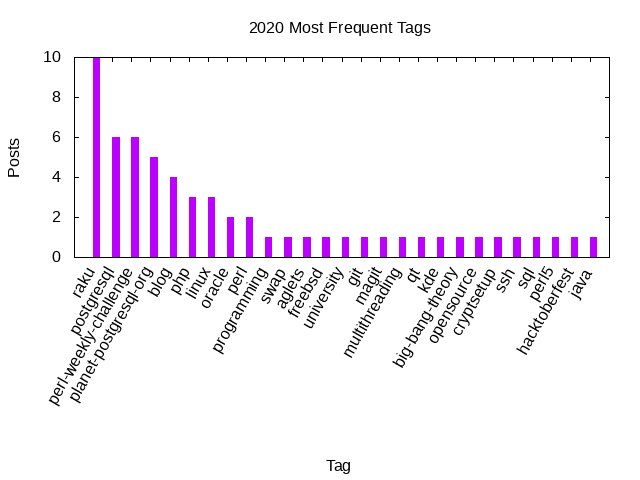
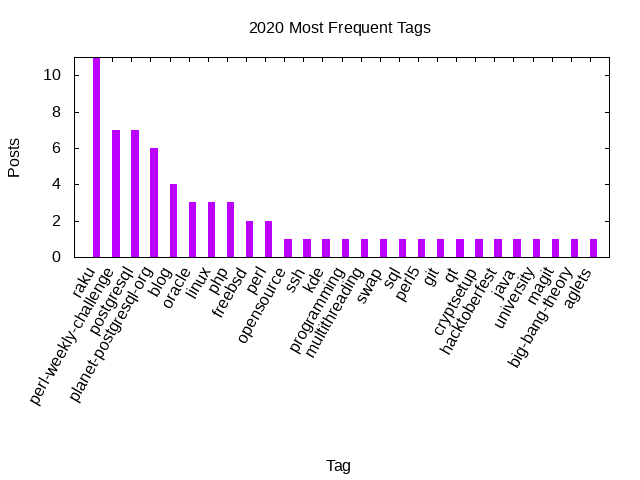
Updated stats.

diff --git a/_includes/stats/2020.md b/_includes/stats/2020.md
@@ -1,36 +1,36 @@
 ## 2020 (work in progress)
 
-**27 total posts** have been written on 2020.
+**30 total posts** have been written on 2020.
 There have been *27 different tags* used, the most
 used popular being (in order of number of posts):
  
-- *raku* (10 posts)  
-- *postgresql* (6 posts)  
-- *perl-weekly-challenge* (6 posts)  
-- *planet-postgresql-org* (5 posts)  
+- *raku* (11 posts)  
+- *perl-weekly-challenge* (7 posts)  
+- *postgresql* (7 posts)  
+- *planet-postgresql-org* (6 posts)  
 - *blog* (4 posts)  
-- *php* (3 posts)  
+- *oracle* (3 posts)  
 - *linux* (3 posts)  
-- *oracle* (2 posts)  
+- *php* (3 posts)  
+- *freebsd* (2 posts)  
 - *perl* (2 posts)  
-- *programming* (1 posts)  
-- *swap* (1 posts)  
-- *aglets* (1 posts)  
-- *freebsd* (1 posts)  
-- *university* (1 posts)  
-- *git* (1 posts)  
-- *magit* (1 posts)  
-- *multithreading* (1 posts)  
-- *qt* (1 posts)  
-- *kde* (1 posts)  
-- *big-bang-theory* (1 posts)  
 - *opensource* (1 posts)  
-- *cryptsetup* (1 posts)  
 - *ssh* (1 posts)  
+- *kde* (1 posts)  
+- *programming* (1 posts)  
+- *multithreading* (1 posts)  
+- *swap* (1 posts)  
 - *sql* (1 posts)  
 - *perl5* (1 posts)  
+- *git* (1 posts)  
+- *qt* (1 posts)  
+- *cryptsetup* (1 posts)  
 - *hacktoberfest* (1 posts)  
-- *java* (1 posts).<br/>
+- *java* (1 posts)  
+- *university* (1 posts)  
+- *magit* (1 posts)  
+- *big-bang-theory* (1 posts)  
+- *aglets* (1 posts).<br/>
 <br/>
 The following is the overall 2020 post ratio by month:
 <br/>
@@ -49,7 +49,7 @@ The following is the overall 2020 post ratio by tag (showing max 30 tags):
 
 <div align="right">
 <small>
-Last generated on 2020-02-17 at 11:50
+Last generated on 2020-02-24 at 13:28
 </small>
 </div>
 
